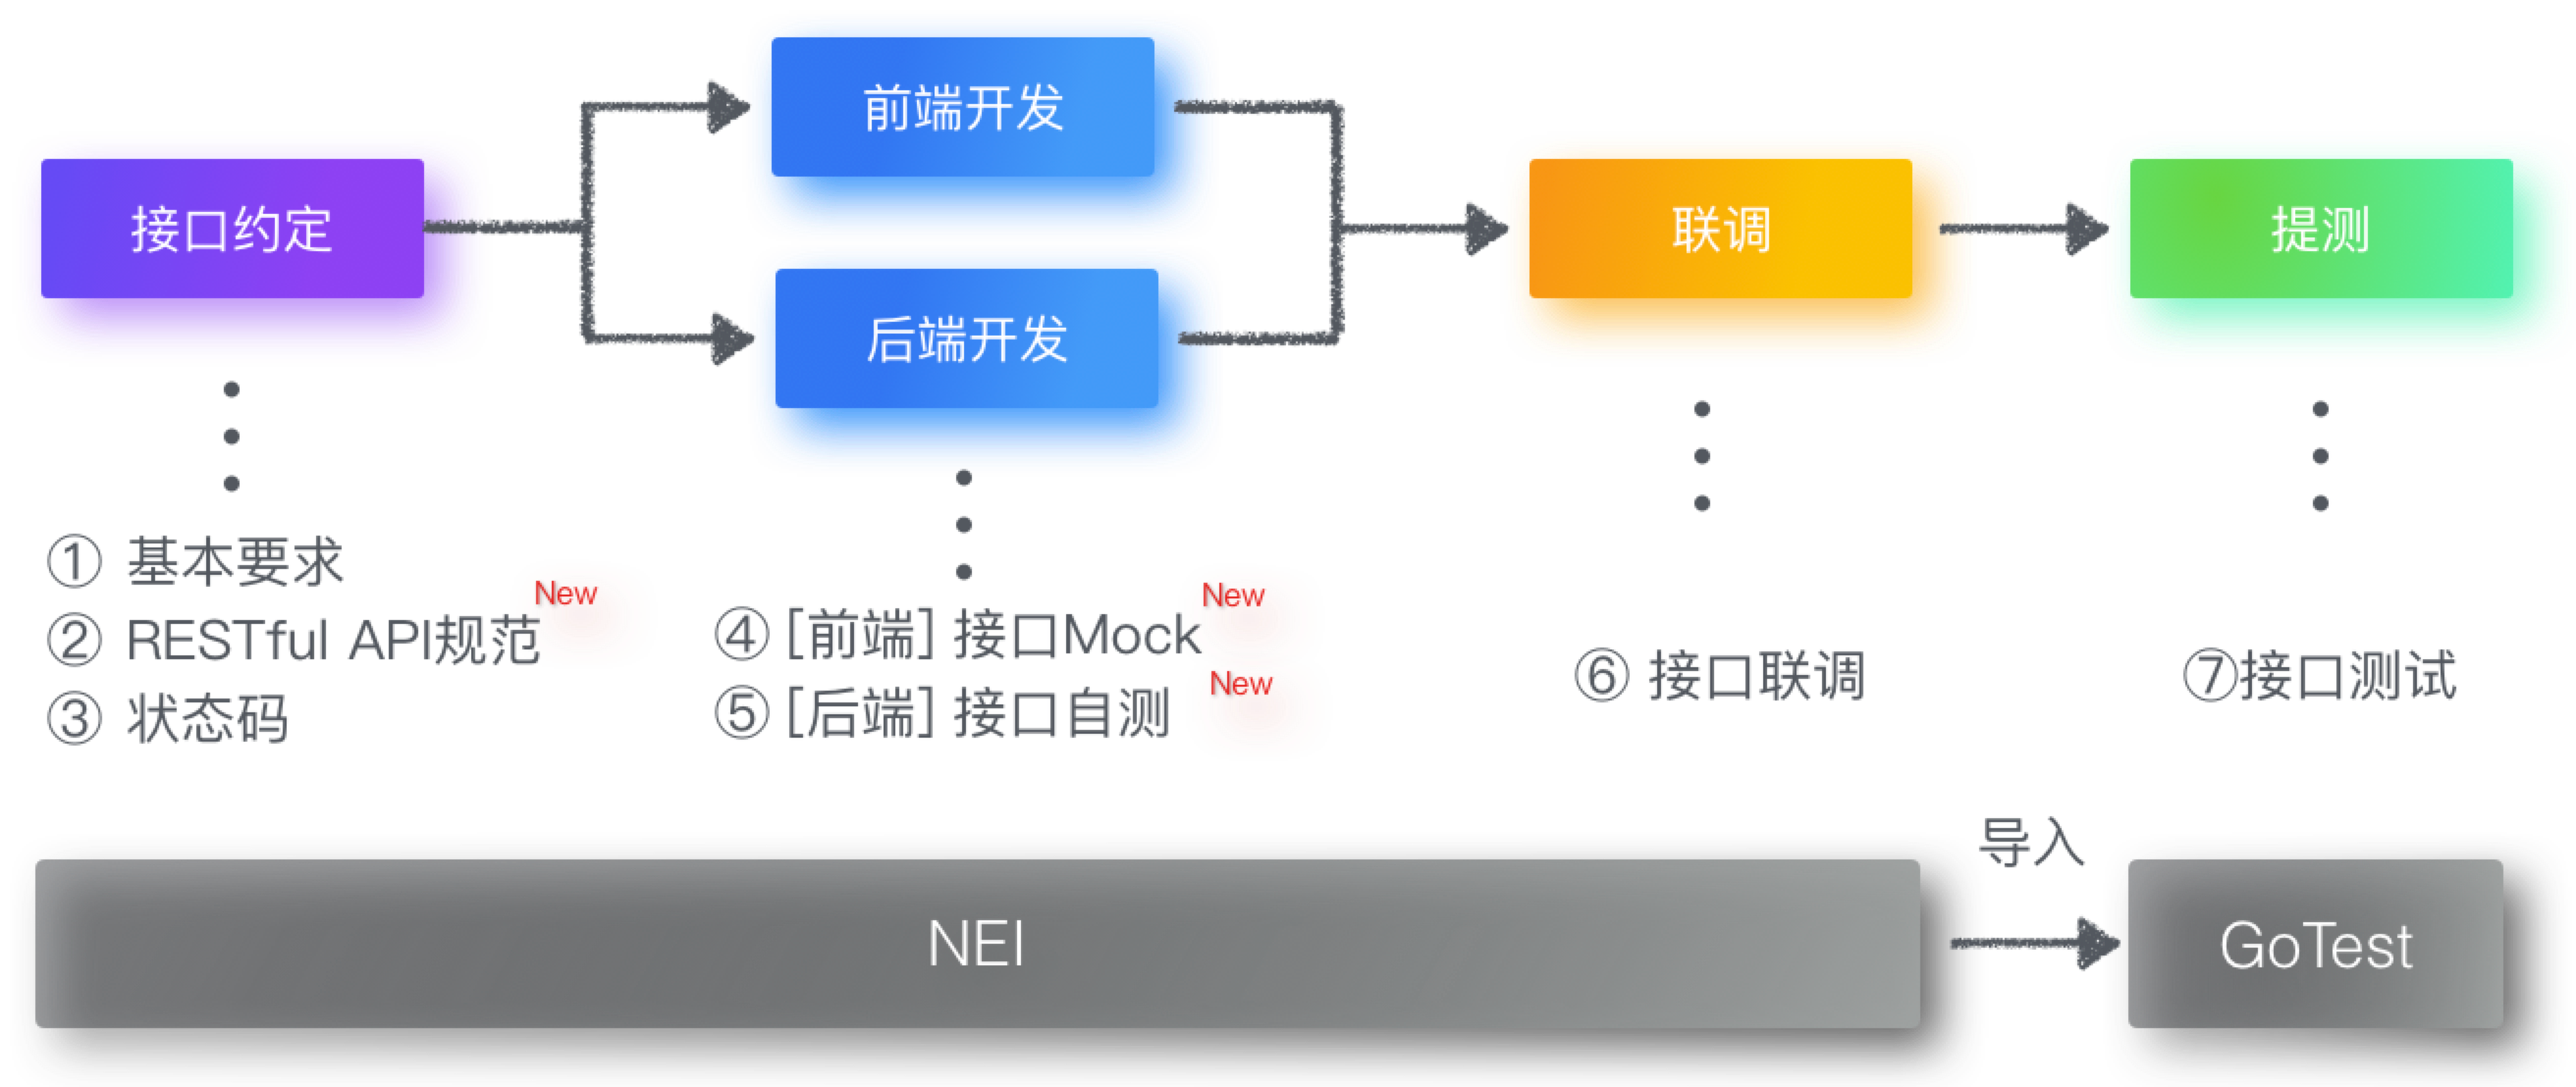
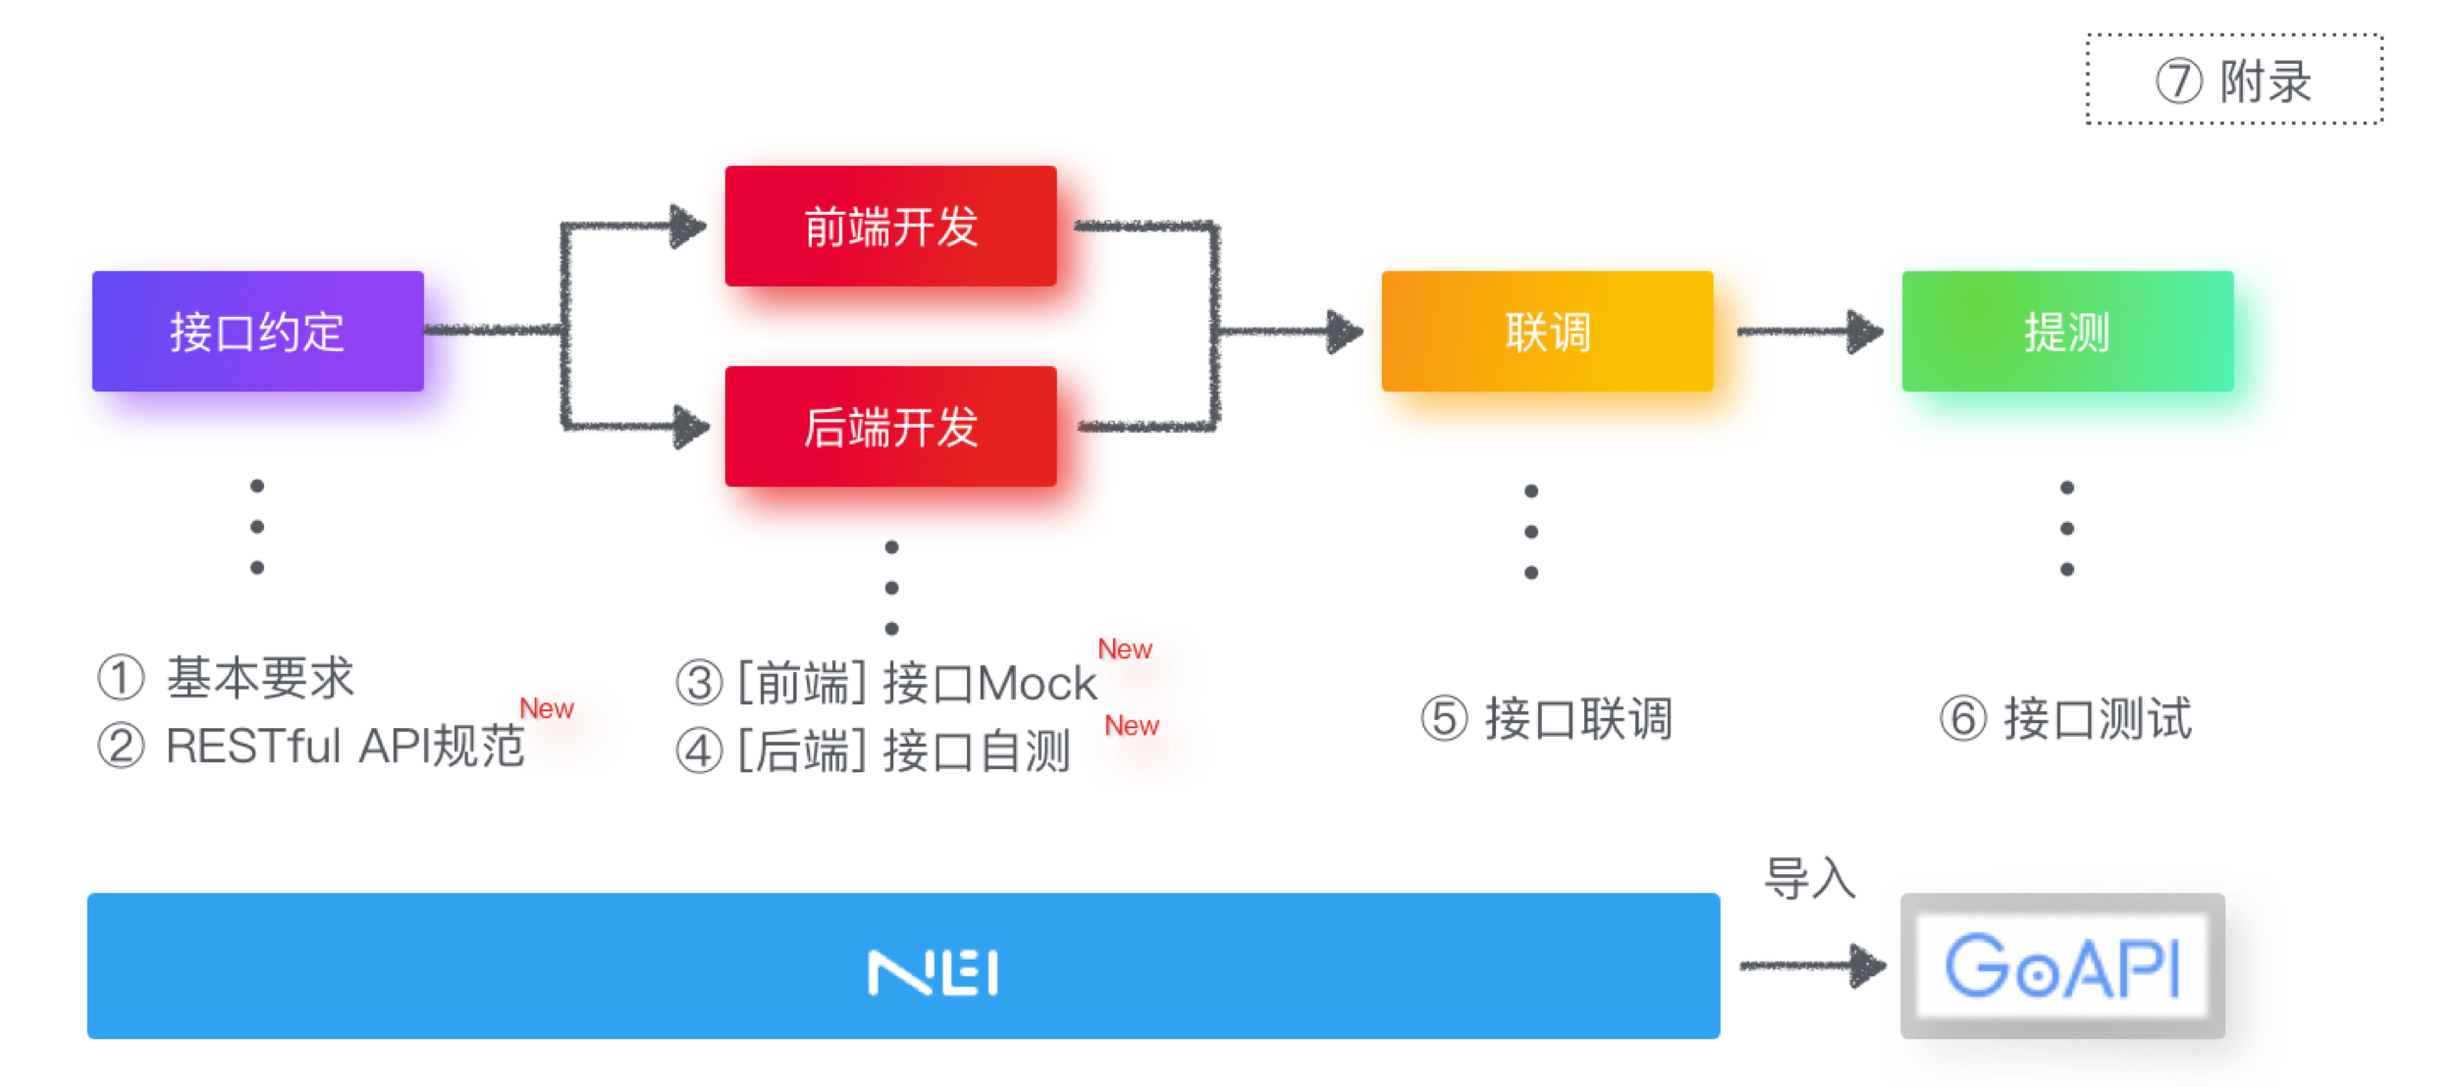
update: description in interface.md

diff --git a/docs/standard/interface/README.md b/docs/standard/interface/README.md
@@ -17,34 +17,91 @@ tags:
 [[toc]]
 
 ## ① 基本要求
-接口约定的基本要求分为：**“时间点”、“内容”** 两大部分。
+| 基本要求 | 说明 | 备注 |
+| ----- |:---:|:---:|
+| 时间 | 在后端完成 **开发方案评审** 后 | ![alt](./img/interface-1.png)|
+| 接口平台 | [NEI](https://nei.netease.com/project?pid=51981) | [GoTest](https://gotest.hz.netease.com/web/#/home/project/api?projectId=175)仅作接口测试使用 |
+| 约定内容 | 接口的基本属性、请求/响应信息 | 后端主导，前端填写 |
 
-### 时间点
-在后端完成 **开发方案** 之后。
-> 需明确时间点：x月x号 上/下午
+### “约定内容”详细说明
+#### 接口的基本属性
+| 接口字段 | 说明 | 示例 |
+| ----- |:---:|:---:|
+| 接口名称 | 必填。动词 + 名词 | 新增词库|
+| 请求方式、URL | 必填。符合RESTful风格（见下文） | POST /search/words |
+| 业务分组 | 必填。功能大模块 | 搜索管理 |
+| 标签 | 必填。功能小模块 | 词库配置 |
+| 负责人 | 必填。一般填“前端人员” | 贺世宇 |
+| 关注人 | 必填。一般填“后端人员” | 张少军 |
 
-![alt](./img/interface-1.png)
-
-### 内容
-每个接口需约定3个部分：**基本属性、请求/响应信息、接口状态**。（**后端主导，前端填写**）
-
- - 基本属性
 ![alt](./img/interface-2.png)
 
- - 请求/响应信息
+#### 接口的请求/响应信息
+| 接口字段 | 说明 | 说明 |
+| ----- |:---:|:---:|
+| 请求头 | 选填。只列出自定义请求头 | / |
+| 字段名称 | 必填。与后端表中字段统一 | 可临时定义，后续修正 |
+| 字段类型 | 必填 | / |
+| 字段描述 | 必填。大致描述、空值、枚举值 | 尽可能详细，可避免后期重复沟通 |
+| 是否必需 | 必填 | / |
+| 生成规则 | 选填 | 自定义Mock数据生成 |
+
 ![alt](./img/interface-3.png)
-
- - 接口状态
-![alt](./img/interface-4.png))
-
-> 前端开发人员需养成好习惯，及时更新接口状态
-
 
 ## ② RESTful API规范
 
 
-## ③ 状态码
-### 常用状态码
+## ③ [前端] 接口Mock
+在之后的新项目开发中，前端可直接通过NEI生成Mock数据，无需专门维护，更加方便快捷！
+
+[《NEI基本使用说明》by heshiyu](http://doc.hz.netease.com/pages/viewpage.action?pageId=235675485)
+
+> *如果想了解更多NEI相关知识，可点击：*[《NEI详细教程》](https://github.com/x-orpheus/nei-toolkit/blob/master/doc/%E4%BD%BF%E7%94%A8NEI%E8%BF%9B%E8%A1%8C%E5%89%8D%E5%90%8E%E7%AB%AF%E5%B9%B6%E8%A1%8C%E5%BC%80%E5%8F%91.md)
+
+三条准则：
+ - `接口状态`。前端们应该养成好习惯，及时更新接口状态，减少重复问题的沟通
+    ![alt](./img/interface-9.png)
+    ![alt](./img/interface-4.png)
+
+ - `导入GoTest`。主开发应该在版本提测前导入，方便QA进行接口测试
+    ![alt](./img/interface-5.png))
+
+ - `及时更新`。前端们应负责保持NEI上的接口处于最新状态。
+    > 若已提测，则需将该接口重新导入GoTest。
+
+
+## ④ [后端] 接口自测
+三条准则：
+ - `Controller层面`无明显错误
+    - 例如请求方式正确，参数类型正确，返回字段齐全以及类型正确
+
+ - `Servic层面`跑通基本功能（例如：增删改查）
+    - 增删改查内部遇到复杂逻辑按实际情况自测;
+
+ - `数据库`
+    - 校对默认值和字数限制微增大;
+
+## ⑤ 接口联调
+### 联调方式
+| 联调方式 | 前端 | 后端 | 部署 |
+| ----- |:---:|:---:|:---:|
+| 1、部署联调 | 服务器 | 服务器 | 至少每天一次 |
+| 2、本地联调 | 本地 | 服务器 | / |
+
+不推荐采用`2、本地联调`，原因：
+ - 联调应当在 **前、后端确保各自的开发质量后** 进行
+ - 本地环境的不稳定性
+ - 部分特殊情景无法模拟
+
+## ⑥ 接口测试
+### 测试策略
+接口测试策略共分为3大方面：**测试分析、测试分类、测试工具**。
+
+![alt](./img/interface-7.png)
+
+## ⑦ 附录
+### 状态码
+#### 常用状态码
 ```js
 // 状态码枚举
 export const ServerCode = {
@@ -88,93 +145,9 @@ export const RedirectMap = {
     [ServerCode.NO_LOGIN]: '#/login'
 };
 ```
-### 注意事项
+
+#### 注意事项
 目前前端有2种提示形式：
  - `400`，可扩展至`400101`、`400102`等来表示业务上更多种可能的情况
  - `402`，一般需后端提供`msg`字段
 ![alt](./img/interface-6.png)
-
-## ④ [前端] 接口Mock
-- **NEI**：**接口编辑平台**（开发人员使用）
-- **GoTest**：**接口测试平台**（QA人员使用）
-
-> NEI：[https://nei.netease.com/project?pid=51981](https://nei.netease.com/project?pid=51981)
-> 
-> GoTest：[https://gotest.hz.netease.com/web/#/home/project/api?projectId=175](https://gotest.hz.netease.com/web/#/home/project/api?projectId=175)
-
-### NEI安装
-```
-npm install -g nei
-```
-
-### NEI使用方式
-| 方式 | 优势 | 劣势 |
-| ----- |:---:|:---:|
-| 本地服务器 | 本地数据改起来更灵活 | 1、需本地启动服务器；2、遇到NEI接口更新，需手动update才能同步 |
-| 线上NEI平台 | 无需构建本地服务器，随时和NEI上的接口保持同步； | 有可能存在网络延迟（待商榷） |
-
-#### 本地Mock
- - 通过CMD指令，进入项目文件夹。
-
- - 构建Mock工程 **（仅首次需要）**
-    ```
-    nei build -k 项目标识
-    # “项目标识”可在"EHR项目组/设置/工具标识"中查看
-    ```
-
-    ![alt](./img/interface-8.png)
-
- - 启动
-    ```
-    nei server
-    ```
-
- - 接口有更新时
-    ```
-    nei update -w
-    ```
-
-#### 线上Mock
-直接修改：`src/config/webpack-dev-server.config.js` -> `proxy` -> `'/mock'.target`的值为：
-
-https://nei.netease.com/api/apimock-v2/{projectId}
-> “EHR项目组”的projectId为：ba3e753ea4e356a8b856fff749e8ce15
-
-### 注意事项
-#### 1、提测前，前端主开发应将接口一键导入到GoTest
-![alt](./img/interface-5.png))
-
-#### 2、接口更新时，前端主动更新NEI接口
-若已提测，则需将该接口重新导入GoTest。
-
-*如果想了解更多NEI相关知识，可点击：*[NEI详细教程](https://github.com/x-orpheus/nei-toolkit/blob/master/doc/%E4%BD%BF%E7%94%A8NEI%E8%BF%9B%E8%A1%8C%E5%89%8D%E5%90%8E%E7%AB%AF%E5%B9%B6%E8%A1%8C%E5%BC%80%E5%8F%91.md)
-
-## ⑤ [后端] 接口自测
-三条准则：
- - `Controller层面`无明显错误
-    - 例如请求方式正确，参数类型正确，返回字段齐全以及类型正确
-
- - `Servic层面`跑通基本功能（例如：增删改查）
-    - 增删改查内部遇到复杂逻辑按实际情况自测;
-
- - `数据库`
-    - 校对默认值和字数限制微增大;
-
-## ⑥ 接口联调
-### 联调方式
-| 联调方式 | 前端 | 后端 | 部署 |
-| ----- |:---:|:---:|:---:|
-| 1、部署联调 | 服务器 | 服务器 | 至少每天一次 |
-| 2、本地联调 | 本地 | 服务器 | / |
-
-不推荐采用`2、本地联调`，原因：
- - 联调应当在 **前、后端确保各自的开发质量后** 进行
- - 本地环境的不稳定性
- - 部分特殊情景无法模拟
-
-## ⑦ 接口测试
-### 测试策略
-接口测试策略共分为3大方面：**测试分析、测试分类、测试工具**。
-
-![alt](./img/interface-7.png)
-
